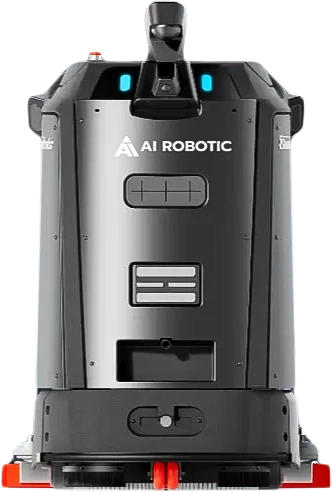
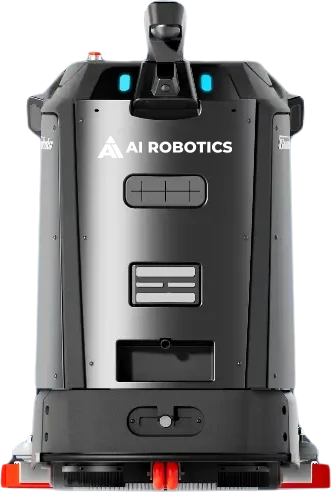
Swap in the AI Robotics artwork across the site
Brand
  The AI-ROBOTIC lockups are replaced by the new AI ROBOTICS set, kept as
  delivered. scripts/build-brand-assets.mjs derives what the site loads:
  the header wordmark trimmed to its ink, so h-7 means seven units of logo
  rather than 71% of that, and the two app icons.

  The tab icon is transparent and runs to a 3% margin -- checked legible at
  16, 24, 32 and 48px on light and dark tabs. The Apple touch icon keeps a
  white ground and a 12% margin: iOS composites transparent touch icons
  onto black, erasing the navy, and its rounded mask clips the mark's lower
  corners.

Robot artwork
  All five machines are re-rendered carrying the new logo. Fleet cutouts
  are rebuilt from front renders via scripts/build-fleet-cutout.mjs, each
  at essentially its previous aspect so the home-page line is unchanged
  apart from the branding.

  Several renders arrived with the transparency checkerboard flattened into
  the pixels -- no alpha channel, two alternating light bands. Those are
  stripped with scripts/strip-checkerboard.mjs, generalised from the
  SP50-specific version to take any path.

  L4: l4-edge-cleaning.png was deleted while still imported. Its feature
  keeps its heading and bullets as a statement rather than being paired
  with an unrelated image. l4-hero-arches.jpg is now a white-background
  workstation cabinet, which cannot sit behind the hero's dark scrim, so
  the hero uses l4-night.jpg.
[…]

diff --git a/lib/robot-images.ts b/lib/robot-images.ts
@@ -9,9 +9,8 @@ import l3Perception from "@/public/robots/l3/l3-perception.webp";
 import l3Maintenance from "@/public/robots/l3/l3-maintenance.webp";
 import l3Workstation from "@/public/robots/l3/l3-workstation-ws3.png";
 
-import l4Hero from "@/public/robots/l4/l4-hero-arches.jpg";
+import l4Hero from "@/public/robots/l4/l4-night.jpg";
 import l4Product from "@/public/robots/l4/l4-product.png";
-import l4Edge from "@/public/robots/l4/l4-edge-cleaning.png";
 import l4Lidar from "@/public/robots/l4/l4-lidar.jpg";
 import l4App from "@/public/robots/l4/l4-app-report.jpg";
 import l4WorkstationPair from "@/public/robots/l4/l4-workstation-pair.jpg";
@@ -31,14 +30,15 @@ import c5Pair from "@/public/robots/C5/c5-hero-pair.png";
 import c5Product from "@/public/robots/C5/c5-product.png";
 import c5Workstation from "@/public/robots/C5/c5-workstation.png";
 
-import sp50Hero from "@/public/robots/sp50/sp50-hero-robot.png";
+import sp50Hero from "@/public/robots/sp50/mall-concourse-night-cinematic-2560x1440-final.png";
+import sp50Banner from "@/public/robots/sp50/product-sp50-banner-robot-m.png";
 import sp50Product from "@/public/robots/sp50/sp50-product.png";
+import sp50InSitu from "@/public/robots/sp50/product-sp50-performance.png";
 import sp50Workstation from "@/public/robots/sp50/sp50-workstation.png";
 import sp50Console from "@/public/robots/sp50/sp50-console.jpg";
 
 import s5Warehouse from "@/public/robots/s5/s5-hero-warehouse.webp";
-import s5HeroRobot from "@/public/robots/s5/s5-hero-robot.webp";
-import s5Product from "@/public/robots/s5/s5-product.webp";
+import s5HeroRobot from "@/public/robots/s5/s5-hero-robot.png";
 import s5TeamClean from "@/public/robots/s5/s5-teamclean.webp";
 import s5Vehicle from "@/public/robots/s5/s5-vehicle-recognition.webp";
 import s5Dust from "@/public/robots/s5/s5-dust-control.webp";
@@ -90,10 +90,6 @@ export const robotImages: Record<string, RobotImages> = {
     hero: l4Hero,
     product: l4Product,
     features: {
-      edge: {
-        src: l4Edge,
-        alt: "L4 front view with the brush deck highlighted, scrubbing flush against a wall edge",
-      },
       lidar: {
         src: l4Lidar,
         alt: "L4 projecting its 3D LiDAR field onto surrounding surfaces while mapping a space",
@@ -157,13 +153,23 @@ export const robotImages: Record<string, RobotImages> = {
   },
 
   sp50: {
-    // no wide banner shot — the cutout carries the hero against the graphite
+    hero: sp50Hero,
+    // Only bites on narrow viewports, where object-cover crops width: pulls
+    // the frame off the lit shopfronts so the headline keeps a dark ground.
+    // On desktop the container is wider than 16:9 and the whole frame shows.
+    heroClass: "object-[38%_center]",
+    // The 3/4 render reads better at hero size than the flat front view,
+    // which stays on the cards.
     heroForeground: {
-      src: sp50Hero,
-      alt: "SP50 AI spot-cleaning robot with its twin side brushes extended",
+      src: sp50Banner,
+      alt: "SP50 AI spot-cleaning robot, three-quarter view with its twin side brushes extended",
     },
+    // Pinned to the right edge of the 6xl content column rather than the
+    // viewport. Every other machine has a photo behind it, so a cutout hard
+    // against the window edge reads as part of the scene; the SP50 has none,
+    // and out there it just looked stranded in the corner.
     heroForegroundClass:
-      "pointer-events-none absolute bottom-0 right-2 z-0 hidden w-[34%] max-w-sm sm:block lg:right-12 lg:max-w-md",
+      "pointer-events-none absolute bottom-0 right-4 z-0 hidden w-[38%] max-w-sm sm:block lg:right-[max(1.5rem,calc(50%-36rem))] lg:max-w-md",
     product: sp50Product,
     features: {
       console: {
@@ -173,6 +179,10 @@ export const robotImages: Record<string, RobotImages> = {
       workstation: {
         src: sp50Workstation,
         alt: "CCS-02 workstation with docking fiducials, where the SP50 charges and empties",
+      },
+      insitu: {
+        src: sp50InSitu,
+        alt: "SP50 sweeping a retail concourse, glass shopfronts and seating behind it",
       },
     },
   },
@@ -184,7 +194,9 @@ export const robotImages: Record<string, RobotImages> = {
       src: s5HeroRobot,
       alt: "S5 industrial sweeper with twin side brushes and amber beacon",
     },
-    product: s5Product,
+    // Same three-quarter render on the cards: the S5 has no separate product
+    // cut-out, and this one reads clearly at card size.
+    product: s5HeroRobot,
     features: {
       teamclean: {
         src: s5TeamClean,

diff --git a/lib/robots.ts b/lib/robots.ts
@@ -208,7 +208,6 @@ export const robots: Robot[] = [
         eyebrow: "Edge cleaning",
         title: "Through the doorway, along the edge",
         body: "Most rivals in this class can't pass a standard door frame. The L4 does — then hugs walls and shelving to under 3 cm, where the dirt actually collects.",
-        imageKey: "edge",
         bullets: [
           "810 mm passage width clears standard doorways",
           "Edge distance under 3 cm along walls and racking",
@@ -448,6 +447,12 @@ export const robots: Robot[] = [
           "18 L dust filter bag, 5 L trash tray",
           "Docking fiducials for unattended return",
         ],
+      },
+      {
+        eyebrow: "On site",
+        title: "A floor that is still in use",
+        body: "A live retail concourse — glass frontage, seating, foot traffic that never quite stops. This is the floor the SP50 is built for: it patrols for what has actually been dropped, rather than working a fixed route across every square metre of it.",
+        imageKey: "insitu",
       },
     ],
     specGroups: [

diff --git a/docs/project-context.md b/docs/project-context.md
@@ -245,20 +245,24 @@ These have each cost time at least once.
 
 ## 7. Brand assets
 
-`public/brand/` holds three originals from the client, all with heavy transparent padding:
+`public/brand/` holds four originals from the client (AI Robotics wordmark, 2026-08-26),
+all on a generous transparent canvas — the wordmark's ink is 71% of its canvas height,
+the symbol's 52%. Left exactly as delivered:
 
 | File | What |
 |---|---|
-| `AI-ROBOTIC-QUAD.png` | 5000² stacked lockup (mark above wordmark), navy + blue |
-| `AI-ROBOTIC-W.png` | horizontal lockup, **pure white** |
-| `AI-ROBOTIC.png` | horizontal lockup, navy `rgb(65,79,105)` |
+| `AI-ROBOTICS.png` | 8750×1789 horizontal lockup, **pure white** — the only one that works on the graphite ground |
+| `AI-ROBOTICS-01.png` | 8750×1789 horizontal lockup, amber mark + navy wordmark — light backgrounds |
+| `AI-ROBOTICS-02.png` | 5000² stacked lockup, amber + navy — light backgrounds |
+| `AI-ROBOTICS_Symbol.png` | 5000² the A mark alone, no wordmark |
 
-Trimmed derivatives generated with sharp:
+Derivatives, regenerated by `node scripts/build-brand-assets.mjs`:
 
-- `wordmark-white.png` (1400×254) — **used in the header and footer** (site ground is dark)
-- `wordmark-navy.png` (1400×254) — for any future light-background use
-- `app/icon.png` (512²) — triangle mark only; the wordmark is illegible below ~64px
-- `app/apple-icon.png` (180²) — full lockup flattened on white, since iOS blackens alpha
+- `wordmark-white.png` (1400×234) — trimmed to the ink so `h-7` means seven units of logo. **Used in the header and footer.**
+- `app/icon.png` (512²) — the symbol on opaque white; navy vanishes on a dark browser tab
+- `app/apple-icon.png` (180²) — same, opaque because iOS composites alpha unpredictably
+
+The two light-background lockups are unused: the site has no logo on a light section yet.
 
 ---
 

diff --git a/docs/decisions.md b/docs/decisions.md
@@ -126,7 +126,8 @@ match — don't introduce `Math.random()` there.
 ### D-009 · Favicon uses the triangle mark, not the full lockup {#d-009}
 **Working · 2026-08-19**
 
-The client asked for `AI-ROBOTIC-QUAD.png` (the stacked lockup) in the browser bar. Its
+The client asked for the stacked lockup (then `AI-ROBOTIC-QUAD.png`, now
+`AI-ROBOTICS-02.png`) in the browser bar. Its
 internals measure: mark 2260×2002, wordmark only 405 px tall. Scaled to a 32 px tab, that
 wordmark renders **3.7 pixels tall** — an unreadable smear that also shrinks the mark to
 nothing.
